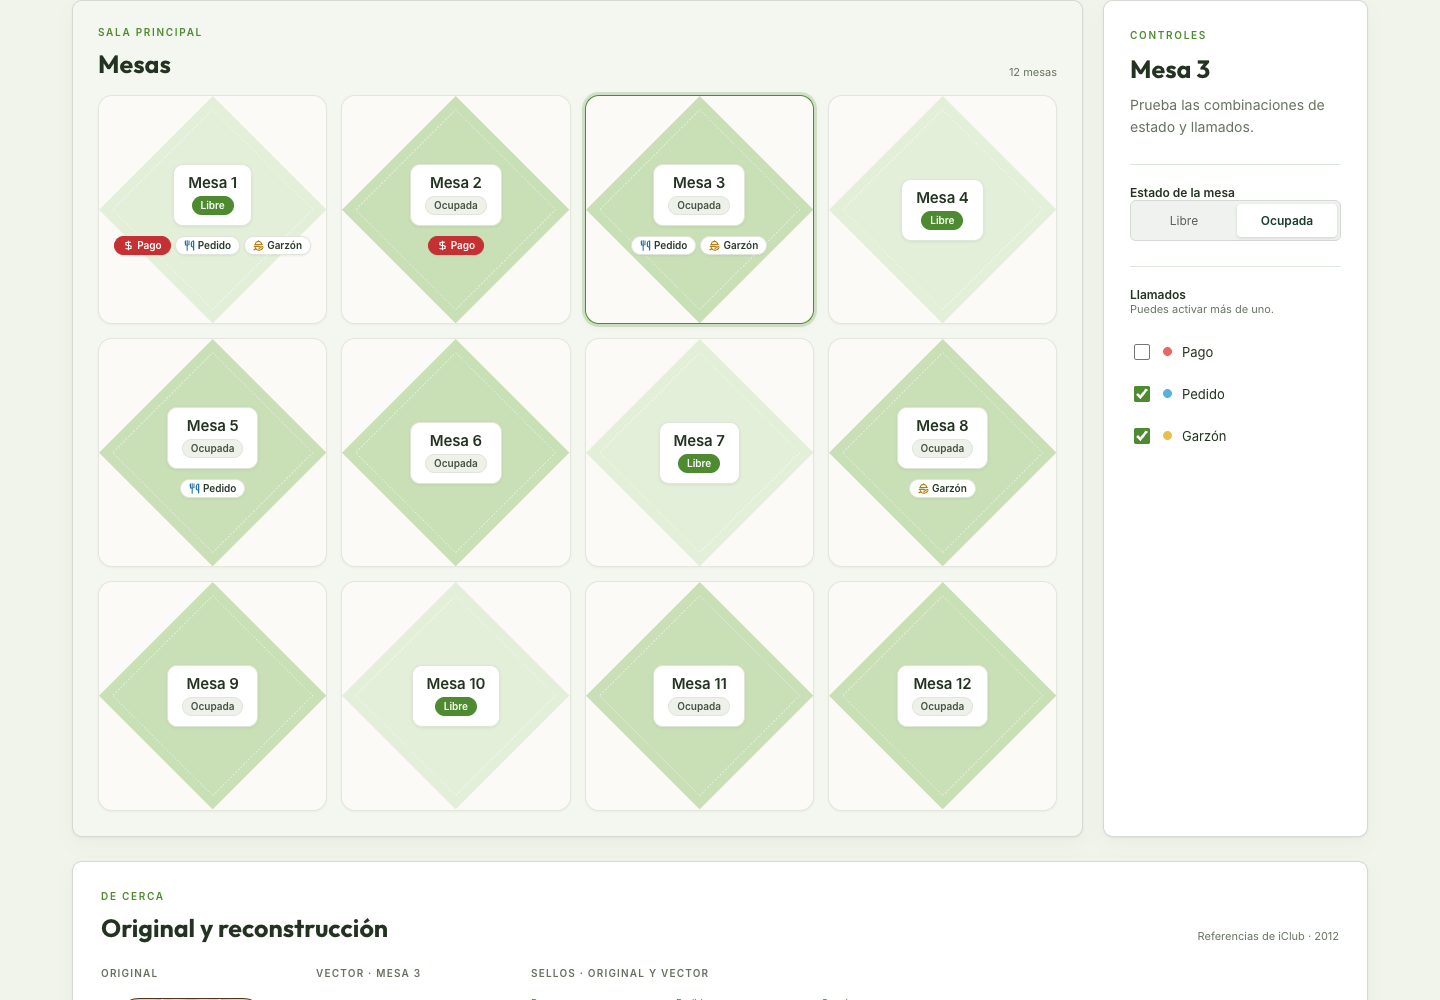
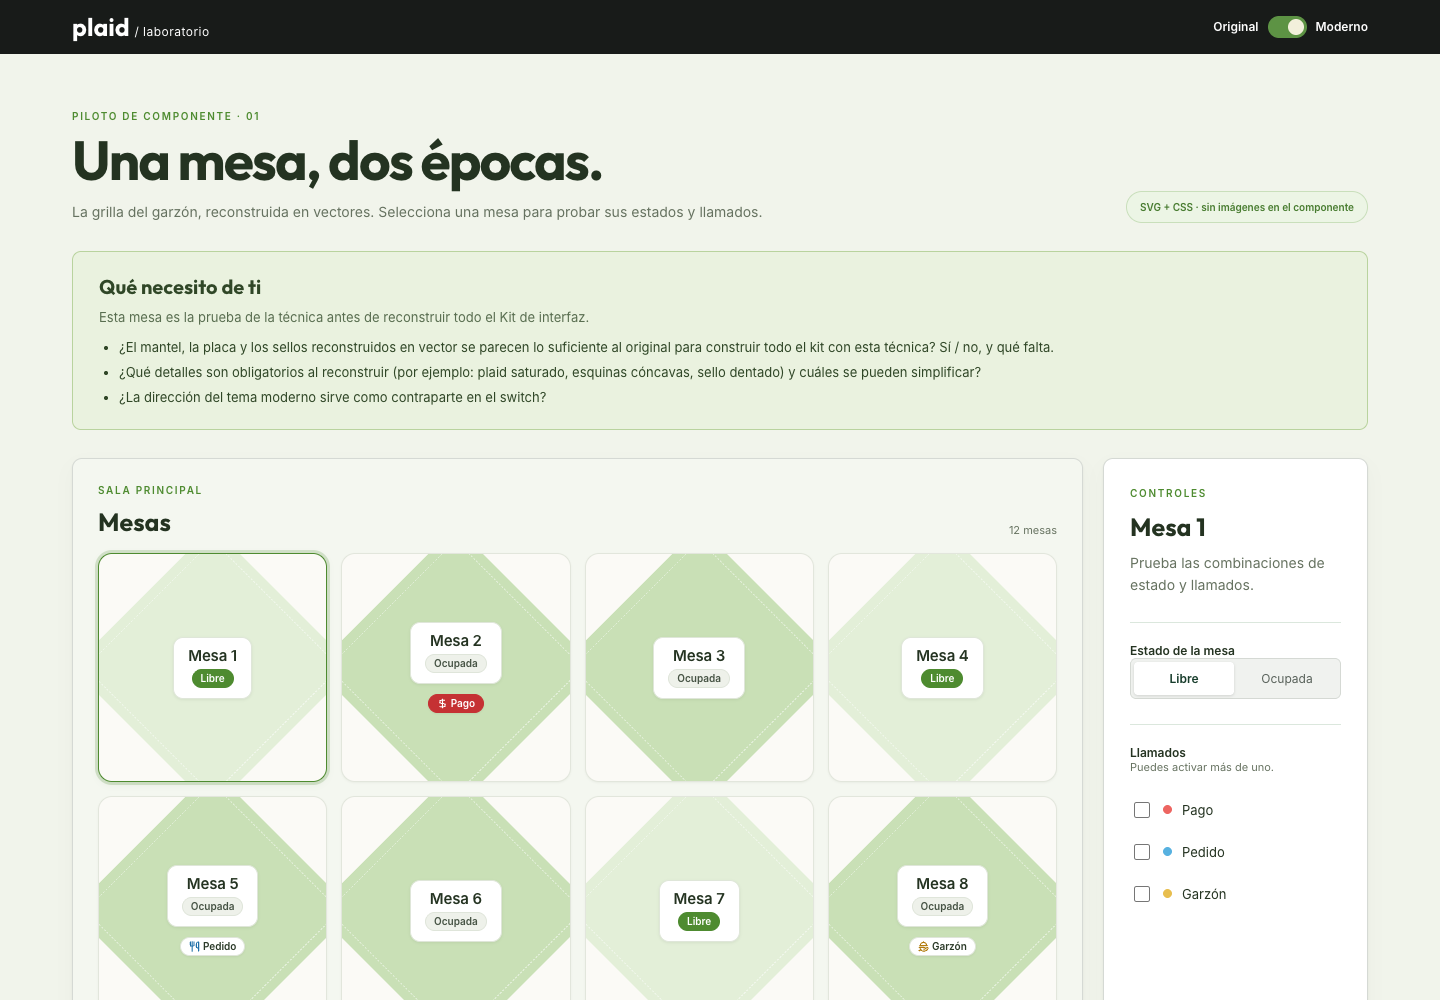
Agranda el mantel moderno para que sobrepase la tarjeta como en el original

diff --git a/src/main.tsx b/src/main.tsx
@@ -30,7 +30,7 @@ function Seal({ kind, x }: { kind: Call; x: number }) {
 function Mesa({ table, number, theme = 'original' }: { table: Table; number: number; theme?: 'original' | 'moderno' }) {
   const id = useId().replace(/:/g, '');
   if (theme === 'moderno') return <div className="modern-table" data-occupied={table.occupied}>
-    <svg className="modern-surface" viewBox="0 0 100 100" preserveAspectRatio="none" aria-hidden="true"><path d="M50 0 100 50 50 100 0 50Z" className="modern-cloth"/><path d="M50 6 94 50 50 94 6 50Z" className="modern-stitch"/></svg>
+    <svg className="modern-surface" viewBox="0 0 100 100" preserveAspectRatio="none" aria-hidden="true"><path d="M50 -12 112 50 50 112 -12 50Z" className="modern-cloth"/><path d="M50 -6 106 50 50 106 -6 50Z" className="modern-stitch"/></svg>
     <div className="modern-plate"><strong>Mesa {number}</strong><span className={`badge ${table.occupied ? 'secondary' : 'default'}`}>{table.occupied ? 'Ocupada' : 'Libre'}</span></div>
     {table.calls.length > 0 && <div className="badges">{table.calls.map(call => { const Icon = sealIcons[call]; return <span key={call} className={`badge call ${call}`} title={labels[call]}><Icon aria-hidden="true" strokeWidth={2.5}/><span className="badge-label">{labels[call]}</span></span>; })}</div>}
   </div>;
